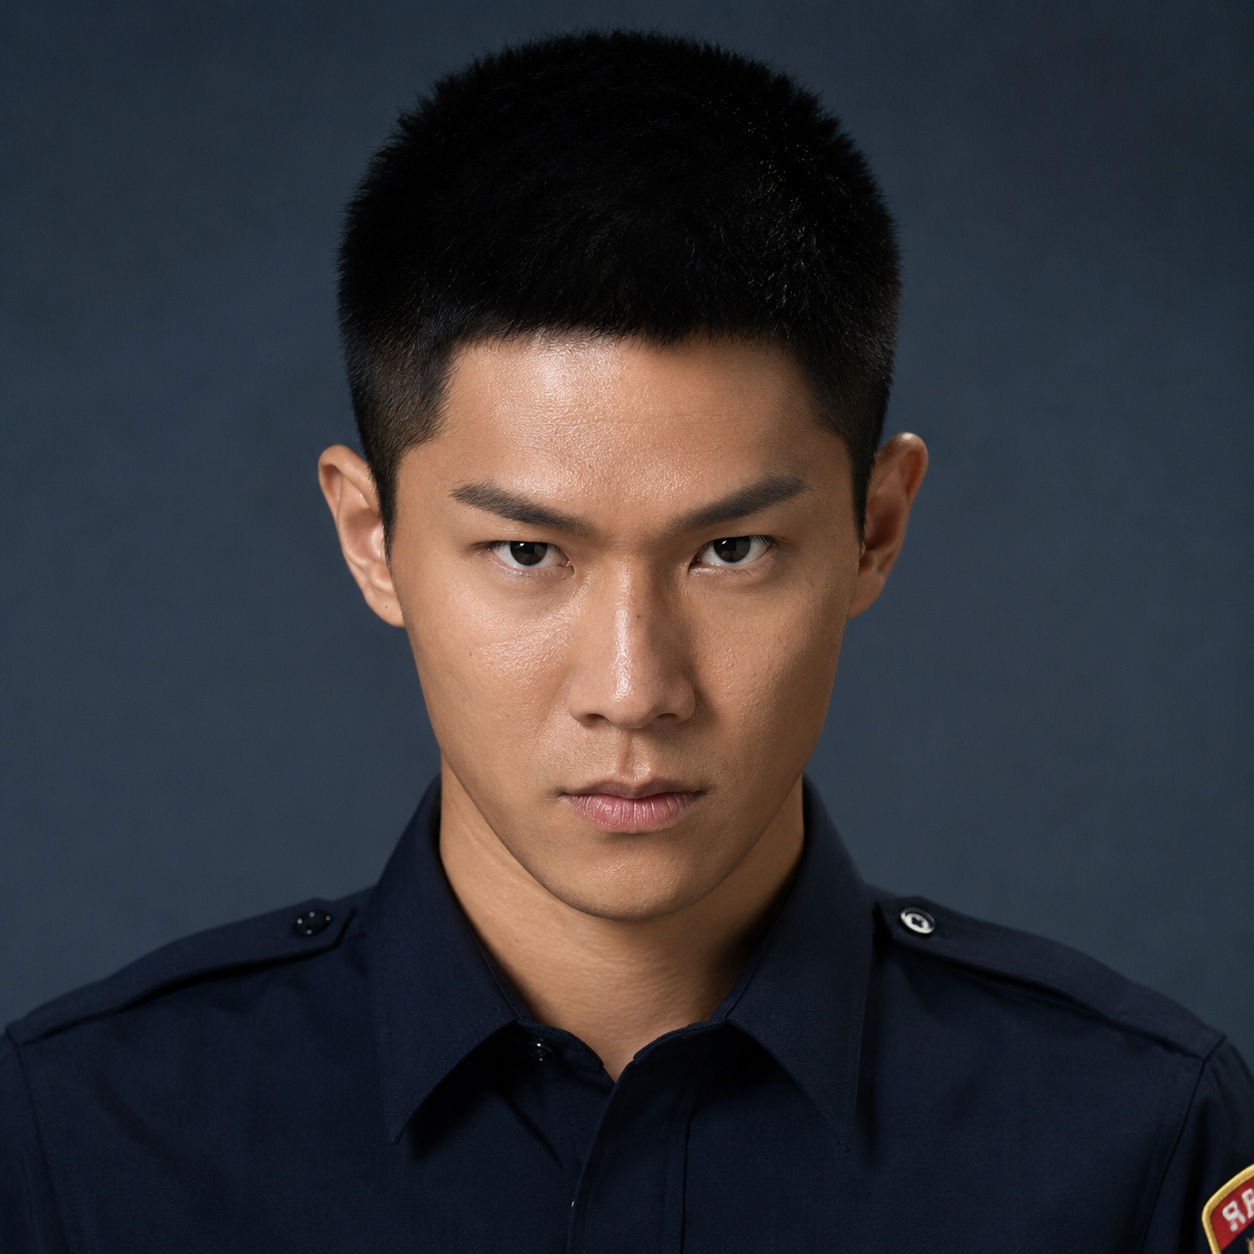
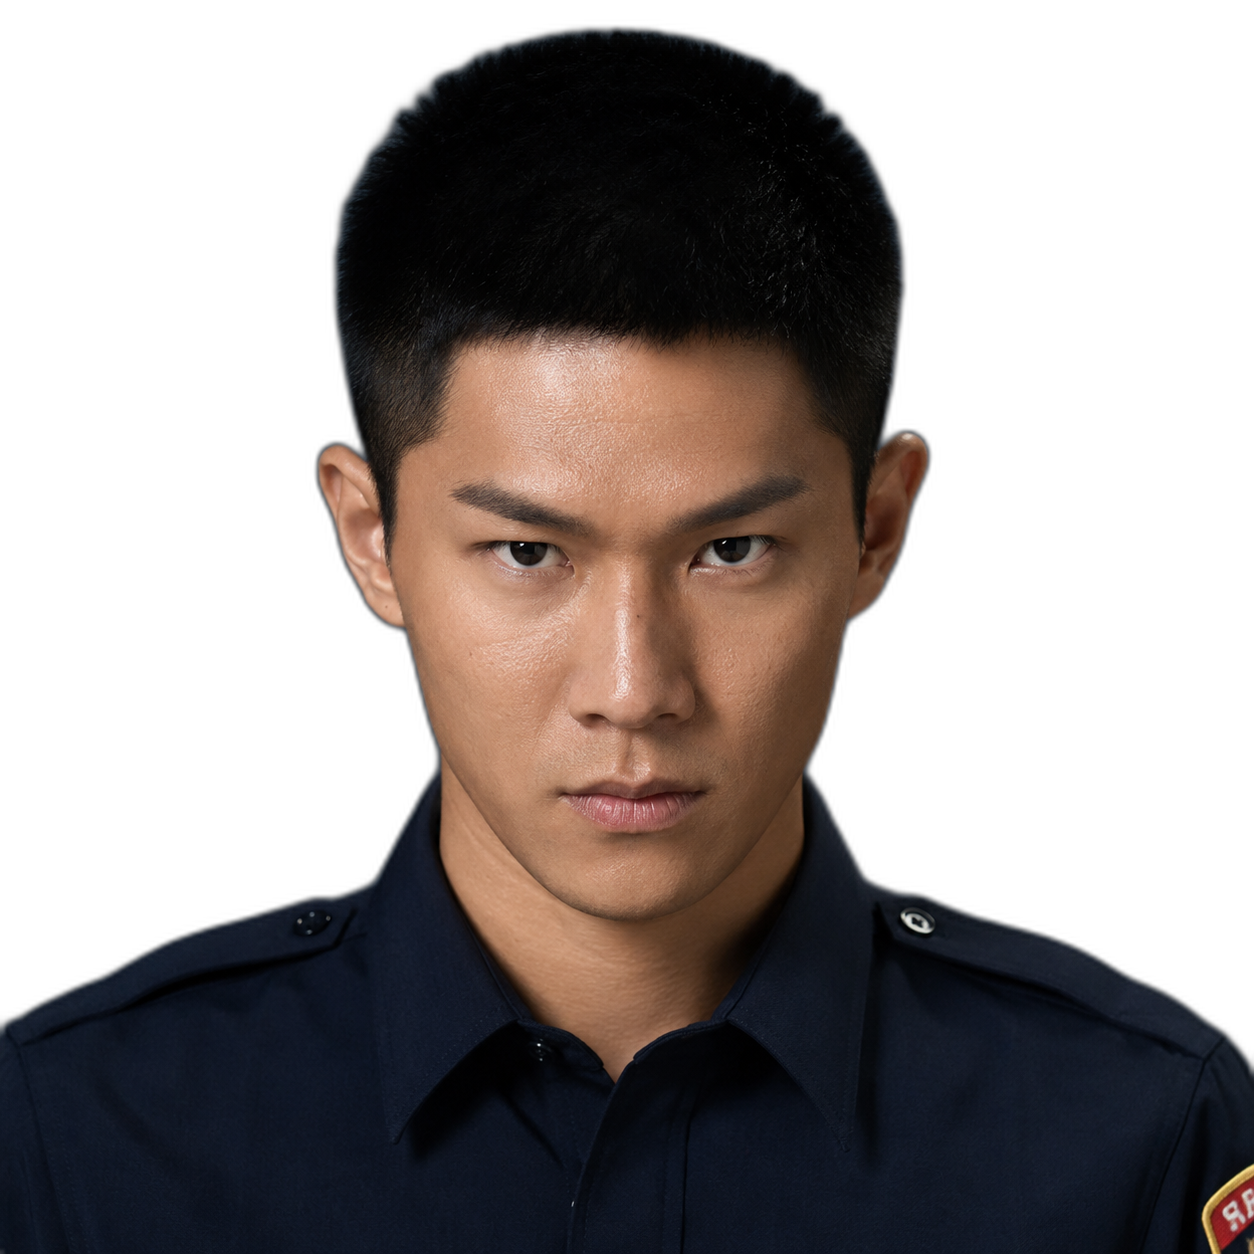
全部對話頭像重新去背(2026-09-01 待辦清單第一項)——原本大多是深色攝影棚 底,只有部分頭頂邊緣有假 alpha,肩膀以下仍是不透明矩形背景。裝 rembg (u2net)批次跑過 assets/bg/*-portrait.png 全部 14 張,覆蓋回原檔名,解析 度不變。game.html PORTRAIT_IMGS 每個 ?v= 快取版號 +1,避免瀏覽器沿用舊 圖。drawPortrait() 本來就會先填深藍底再畫頭像,不用另外改程式。
Claude-Session: https://claude.ai/code/session_01CVuw3zEoGBvkzBjpLZ8qph

diff --git a/prototypes/game.html b/prototypes/game.html
@@ -524,7 +524,7 @@
       <div class="invCol invMid">
         <div class="equipBadges" id="equipLeft"></div>
         <img id="invPortrait" src="../assets/bg/pc-fullbody.png?v=1" alt=""
-             onerror="this.onerror=null; this.src='../assets/bg/pc-portrait.png?v=1';">
+             onerror="this.onerror=null; this.src='../assets/bg/pc-portrait.png?v=2';">
         <div class="equipBadges" id="equipRight"></div>
       </div>
       <div class="invCol invRight">
@@ -1726,42 +1726,42 @@ const WHO = {
    `SF.person()` 像素小人。**PORTRAIT_IMGS 集中管理**,不要再一個角色一個
    if/else 分支——加新角色的照片只要在這個表加一行。 */
 const PORTRAIT_IMGS = {
-  clerk:  loadPortraitImg('../assets/bg/clerk-portrait.png?v=2'),
-  pc:     loadPortraitImg('../assets/bg/pc-portrait.png?v=1'),
-  mom:    loadPortraitImg('../assets/bg/mom-portrait.png?v=1'),
-  dad:    loadPortraitImg('../assets/bg/dad-portrait.png?v=1'),
+  clerk:  loadPortraitImg('../assets/bg/clerk-portrait.png?v=3'),
+  pc:     loadPortraitImg('../assets/bg/pc-portrait.png?v=2'),
+  mom:    loadPortraitImg('../assets/bg/mom-portrait.png?v=2'),
+  dad:    loadPortraitImg('../assets/bg/dad-portrait.png?v=2'),
   /* worker/acheng(2026-08-20)——廟口真人頭像這輪的前兩張,阿源/阿姨
      還沒生,那兩個 key 沒進這個表之前 drawPortrait() 會自動退回
      SF.person() 像素小人(既有 fallback,不會壞)。 */
-  worker: loadPortraitImg('../assets/bg/worker-portrait.png?v=2'),
-  acheng: loadPortraitImg('../assets/bg/acheng-portrait.png?v=2'),
-  ayi:    loadPortraitImg('../assets/bg/ayi-portrait.png?v=1'),
-  yuan:   loadPortraitImg('../assets/bg/yuan-portrait.png?v=2'),
+  worker: loadPortraitImg('../assets/bg/worker-portrait.png?v=3'),
+  acheng: loadPortraitImg('../assets/bg/acheng-portrait.png?v=3'),
+  ayi:    loadPortraitImg('../assets/bg/ayi-portrait.png?v=2'),
+  yuan:   loadPortraitImg('../assets/bg/yuan-portrait.png?v=3'),
   /* 學校三人(2026-08-24)——先試過拿 3D 模型近拍當大頭貼,kc 抓到「沒有
      眼球」(骨架轉檔時原廠臉部貼圖被剝掉,只剩 Eyelashes 那個獨立 mesh,
      見跟 kc 的對話紀錄),改回跟店員/爸媽同一套 AI 生真人照片。阿仁刻意
      生成光頭,呼應他在遊戲裡本來就是禿頭(骨架 m3/Brian 沒有 Hair mesh),
      不是巧合。 */
-  mei:    loadPortraitImg('../assets/bg/mei-portrait.png?v=2'),
-  aren:   loadPortraitImg('../assets/bg/aren-portrait.png?v=1'),
-  kai:    loadPortraitImg('../assets/bg/kai-portrait.png?v=1'),
+  mei:    loadPortraitImg('../assets/bg/mei-portrait.png?v=3'),
+  aren:   loadPortraitImg('../assets/bg/aren-portrait.png?v=2'),
+  kai:    loadPortraitImg('../assets/bg/kai-portrait.png?v=2'),
   /* 刺青店老闆(2026-08-28)——kc 丟的真人照片,跟 tattooMasterIndoor 那具
      3D 骨架配色是同一個人設定(見那則筆記),之前對話框一直退回
      SF.person() 像素小人 fallback,這輪補真的照片。 */
-  tattooMaster: loadPortraitImg('../assets/bg/tattooMaster-portrait.png?v=1'),
+  tattooMaster: loadPortraitImg('../assets/bg/tattooMaster-portrait.png?v=2'),
   /* 工地老闆(2026-08-28)——kc 丟的照片背景其實是張很淺的棋盤格透明示意圖
      (不是真的 alpha,PIL 讀出來是 RGB 不是 RGBA),直接貼上去對話框會看到
      一整片淺灰棋盤格。用 white-to-alpha.py(閾值 225,棋盤格兩種灰階都夠
      亮,擋得掉,又不會咬到安全帽的黃)去背,不是這裡才第一次踩到「AI
      生圖工具自己的透明示意畫面被存成真的像素」這個坑,以後遇到同款
      棋盤格背景圖都可以先試同一支腳本。 */
-  foreman: loadPortraitImg('../assets/bg/foreman-portrait.png?v=1'),
+  foreman: loadPortraitImg('../assets/bg/foreman-portrait.png?v=2'),
   /* 阿正(2026-08-31)——先接資料,照片還沒生,跟 worker/bo/motoboss/foreman
      當初同一套先例:檔案還沒存在時 img.naturalWidth 是 0,drawPortrait()
      自動退回 SF.person() 像素小人,不會壞,kc 丟真的照片進來對話框會
      自動換上,不用再回來改這裡。生圖 prompt 見這輪聊天紀錄,沒有寫進
      PROMPTS.md(見 feedback_prompts_in_chat_not_md 那條慣例)。 */
-  brother: loadPortraitImg('../assets/bg/brother-portrait.png?v=1')
+  brother: loadPortraitImg('../assets/bg/brother-portrait.png?v=2')
 };
 function loadPortraitImg(src){ const img = new Image(); img.src = src; return img; }
 function drawPortrait(who){

diff --git a/docs/DESIGN_NOTES.md b/docs/DESIGN_NOTES.md
@@ -5975,12 +5975,19 @@ claude-in-chrome 測試時參考:
 
 ## ⬜ 待辦清單(2026-09-01,kc 新增,還沒動手做)
 
-- **所有有對話的人物頭像補去背**——現有頭像照片(`clerk`/`pc`/`mom`/
-  `tattooMaster`/之後的 `brother` 等)大多是深色攝影棚底,不是真的透明
-  (見公車亭/刺青店那批「拿麵包+補上真人頭像」舊筆記,`tattooMaster`
-  那張講過同一件事:看起來像去背只是對話框畫布本身也是深色底,實際
-  沒有 alpha 通道)。kc 要求全部重新處理成真的去背(透明背景),不是
-  裁圖而已。
+- ✅ **所有有對話的人物頭像補去背**(2026-09-03 處理)——原本大多是深色
+  攝影棚底,不是真的透明(見公車亭/刺青店那批舊筆記)。裝了 `rembg`
+  (u2net 模型,`pip3 install rembg`)批次跑過 `assets/bg/*-portrait.png`
+  全部 14 張(`clerk`/`pc`/`mom`/`dad`/`worker`/`acheng`/`ayi`/`yuan`/
+  `mei`/`aren`/`kai`/`tattooMaster`/`foreman`/`brother`),輸出解析度
+  跟原圖一致,直接覆蓋回原檔名。`game.html` `PORTRAIT_IMGS` 每個
+  `?v=` 快取版號都 +1 避免瀏覽器沿用舊快取。`drawPortrait()` 本來就會
+  先填 `#1b202b` 深藍底再畫頭像(`game.html` 那段既有邏輯沒有動),
+  所以去背後的透明區塊會自動顯示對話框深底色,不用另外改程式。驗證
+  方式:每張都跟原圖比對解析度相符,另外把全部 14 張疊到色底(綠色)
+  拼成一張 contact sheet 肉眼過一輪,髮絲/肩膀邊緣乾淨沒有殘留黑邊,
+  沒有另外在瀏覽器裡跑過(這輪只換素材沒動遊戲邏輯,風險低,交給 kc
+  自己開遊戲看效果)。
 - ✅ **小美「約她出去玩」卡門檻**(2026-09-02 補完)——問過 kc 要用什麼當
   門檻,回「就是用帥潮當門檻」,沿用街上初遇 `talkToMei()` 已經在用的同一個
   數字(`ST.cool<22`)+同一組 `disdainTalk` 反應,按下去才觸發拒絕(選項
